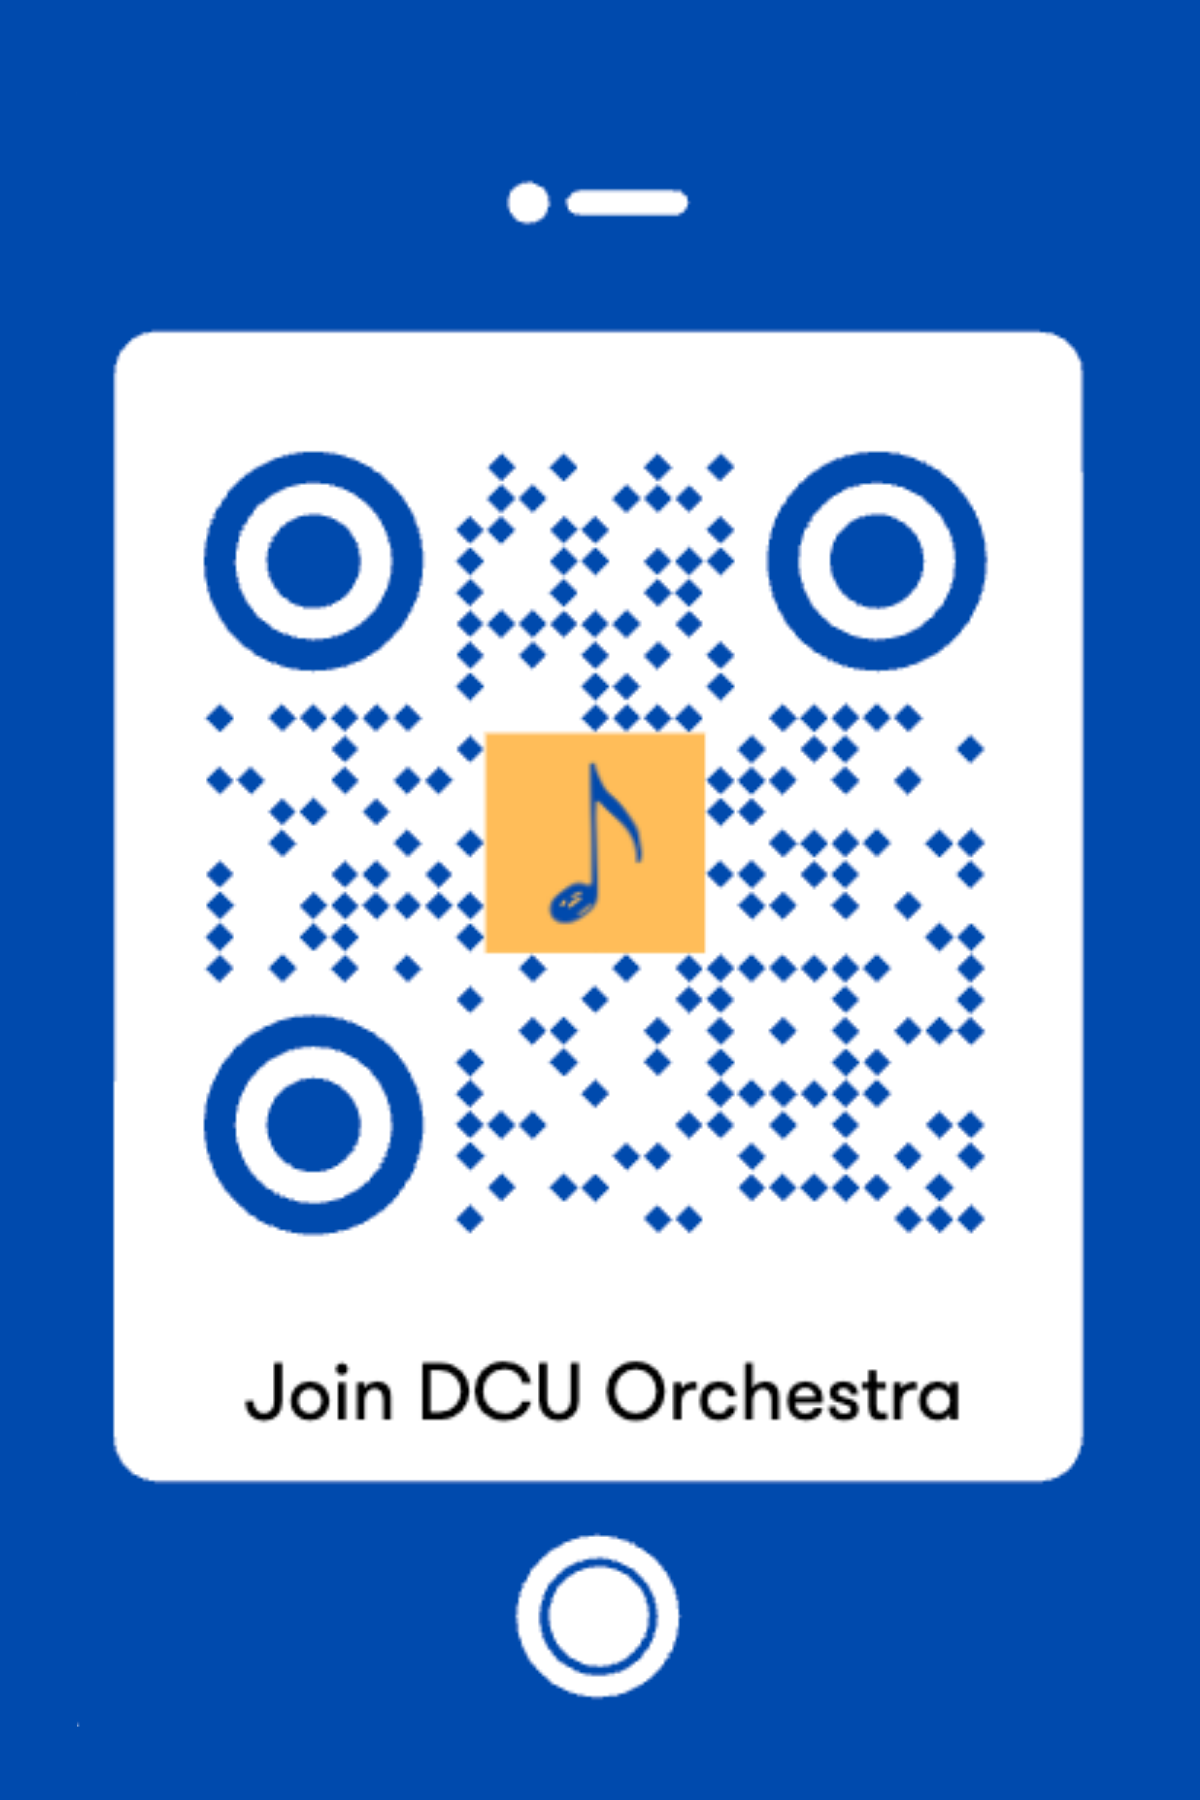
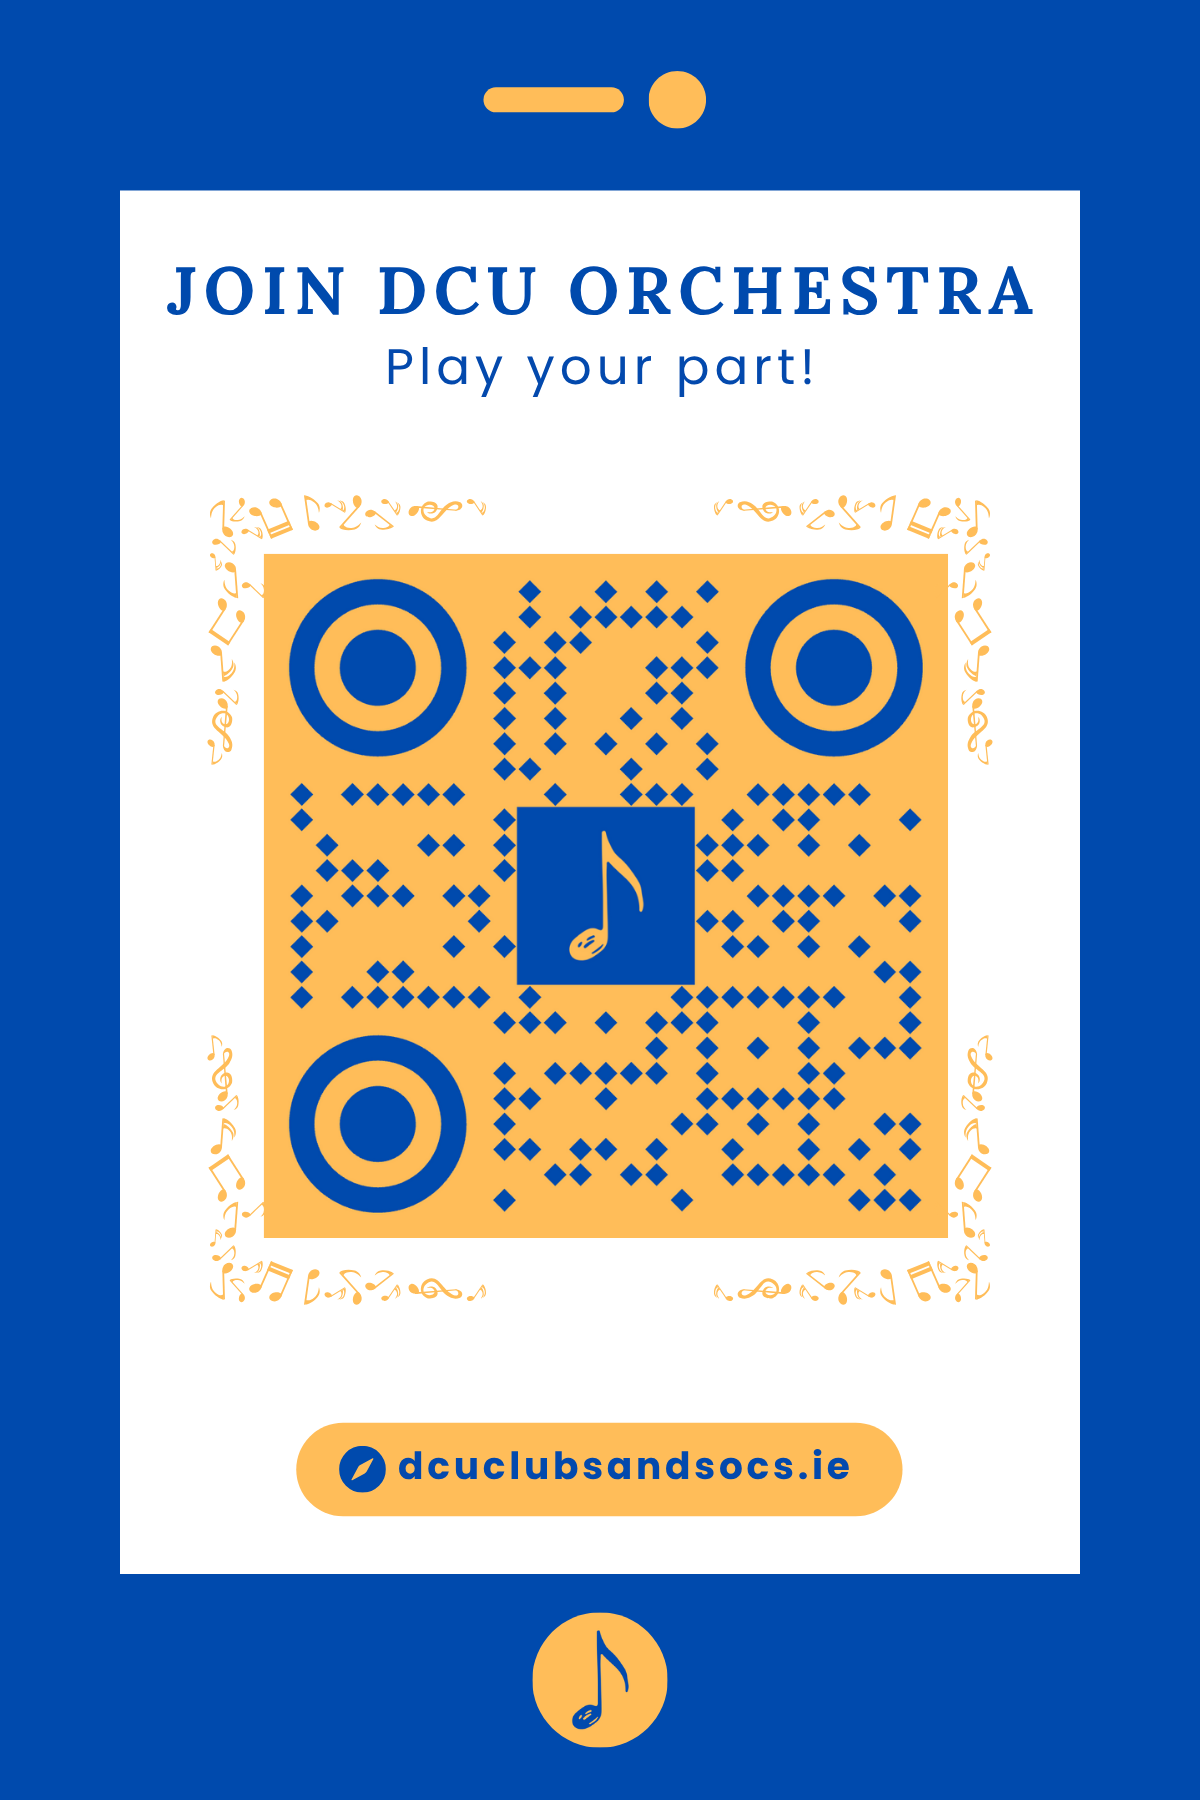
Add images and update text

diff --git a/dcuo.html b/dcuo.html
@@ -82,7 +82,7 @@
                     <br><li>For typography, I combined Lora (a classic serif) with Poppins (a modern sans-serif) to balance the formal feel of an orchestra with the fresh, student-led nature of the society.</li>
                     <br><li>The Instagram highlight covers gradually shift into a deeper blue to visually represent the society’s growth. </li>
                     <br><li>On each carousel post, the swipe icon includes our submark logo, so the brand stays recognisable as people scroll through our content.</li>
-                    <br><li>Lists are contained by corner designs made up of musical notes which further highlights the orchestra's focus.</li>
+                    <br><li>I use corner designs made up of musical notes which further highlights the orchestra's focus.</li>
                 </ol>
             </section>
 
@@ -136,11 +136,13 @@
                 <h3>Clubs & societies fair</h3>
                 <div class="image-grid-3">
                     <img src="img/dcuo-bookmark-2.png">
-                    <img src="img/dcuo-join-poster-1.png">
                     <img src="img/dcuo-join-sticker-2.png">
+                    <img src="img/dcuo-join-poster-1.png">
                     <img src="img/dcuo-join-poster-2.png">
-                    <img src="img/dcuo-join-sticker-1.png">
                     <img src="img/dcuo-bookmark-1.png">
+                    <img src="img/dcuo-join-sticker-1.png">
+
+
                 </div>
                 <p>I designed promotional posters, stickers, and bookmarks featuring a custom QR code that links directly to the membership page.</p>
                 <ol>
@@ -161,7 +163,7 @@
                 </div>
                 <p>I also made table toppers and banners for our stand (a similar version of one of the banners is also on our Linkedin page).</p>
                 <ol>
-                    <li>The phone graphic was used to subtly reinforce our online presence.</li>
+                    <li>I made the phone graphic to subtly reinforce our online presence. I got inspiration from how what it actually looks like when you scan a QR code on an iPhone.</li>
                     <br><li>The envelope design was chosen to emphasise that we're inviting people to the orchestra.</li>
                     <br><li>The banners show “DCU ORCHESTRA” in all caps, matching our social media style, with the favicon next to it to help people recognise us even in small spaces.
 </li>
